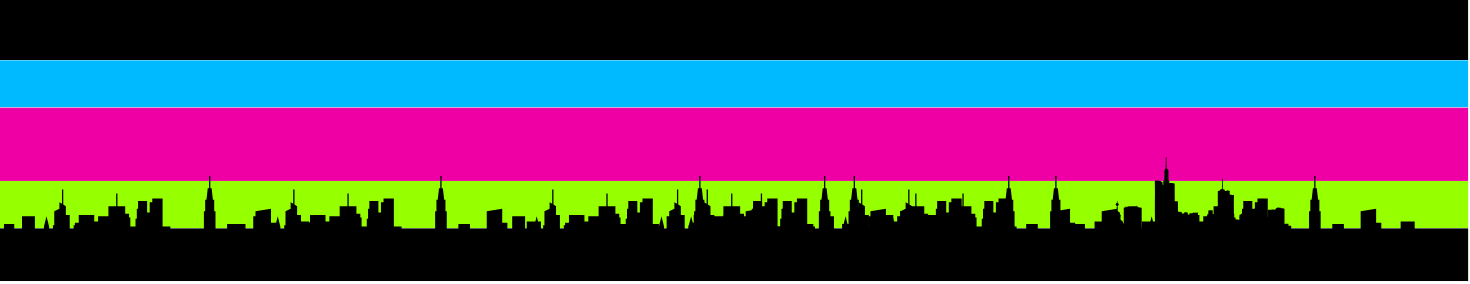
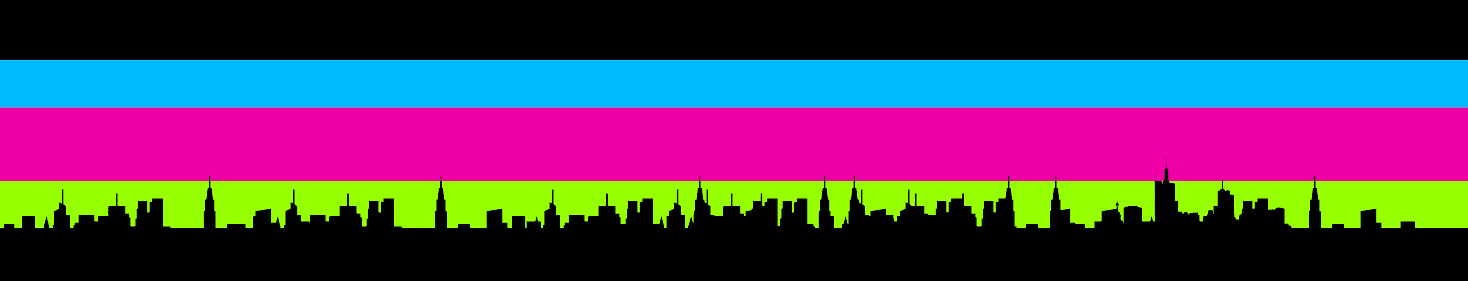
feat: main page header and background implemented

diff --git a/index.html b/index.html
@@ -12,13 +12,13 @@
 
     <body class="flex min-h-dvh flex-col justify-between">
         <!--TITLE BAR-->
-        <header class="flex flex-row justify-center items-end h-60 bg-[url(/assets/images/banner.png)] bg-origin-padding bg-contain bg-repeat-x bg-center">
-            <img class="h-full min-w-90.5 aspect-auto" src="assets/images/title.png" alt="Cat logo peering over title">
+        <header class="h-60 bg-[url(/assets/images/graphics/bg.png)] bg-repeat-x bg-center min-h-60">
+            <img class="max-h-full mx-auto" src="assets/images/graphics/2026 (4).png" alt="">
             <h1 class="sr-only">Next Phase</h1>
             <h2 class="sr-only">Gradshow 2026</h2>
         </header>
 
-        <main class="mx-auto w-full">
+        <main class="mx-auto w-full bg-[url(/assets/images/graphics/NXTPhasePattern_PNG2.png)] bg-repeat">
             <br />
             <!--BLURB-->
             <section class="mx-auto w-3/4 max-w-180">
